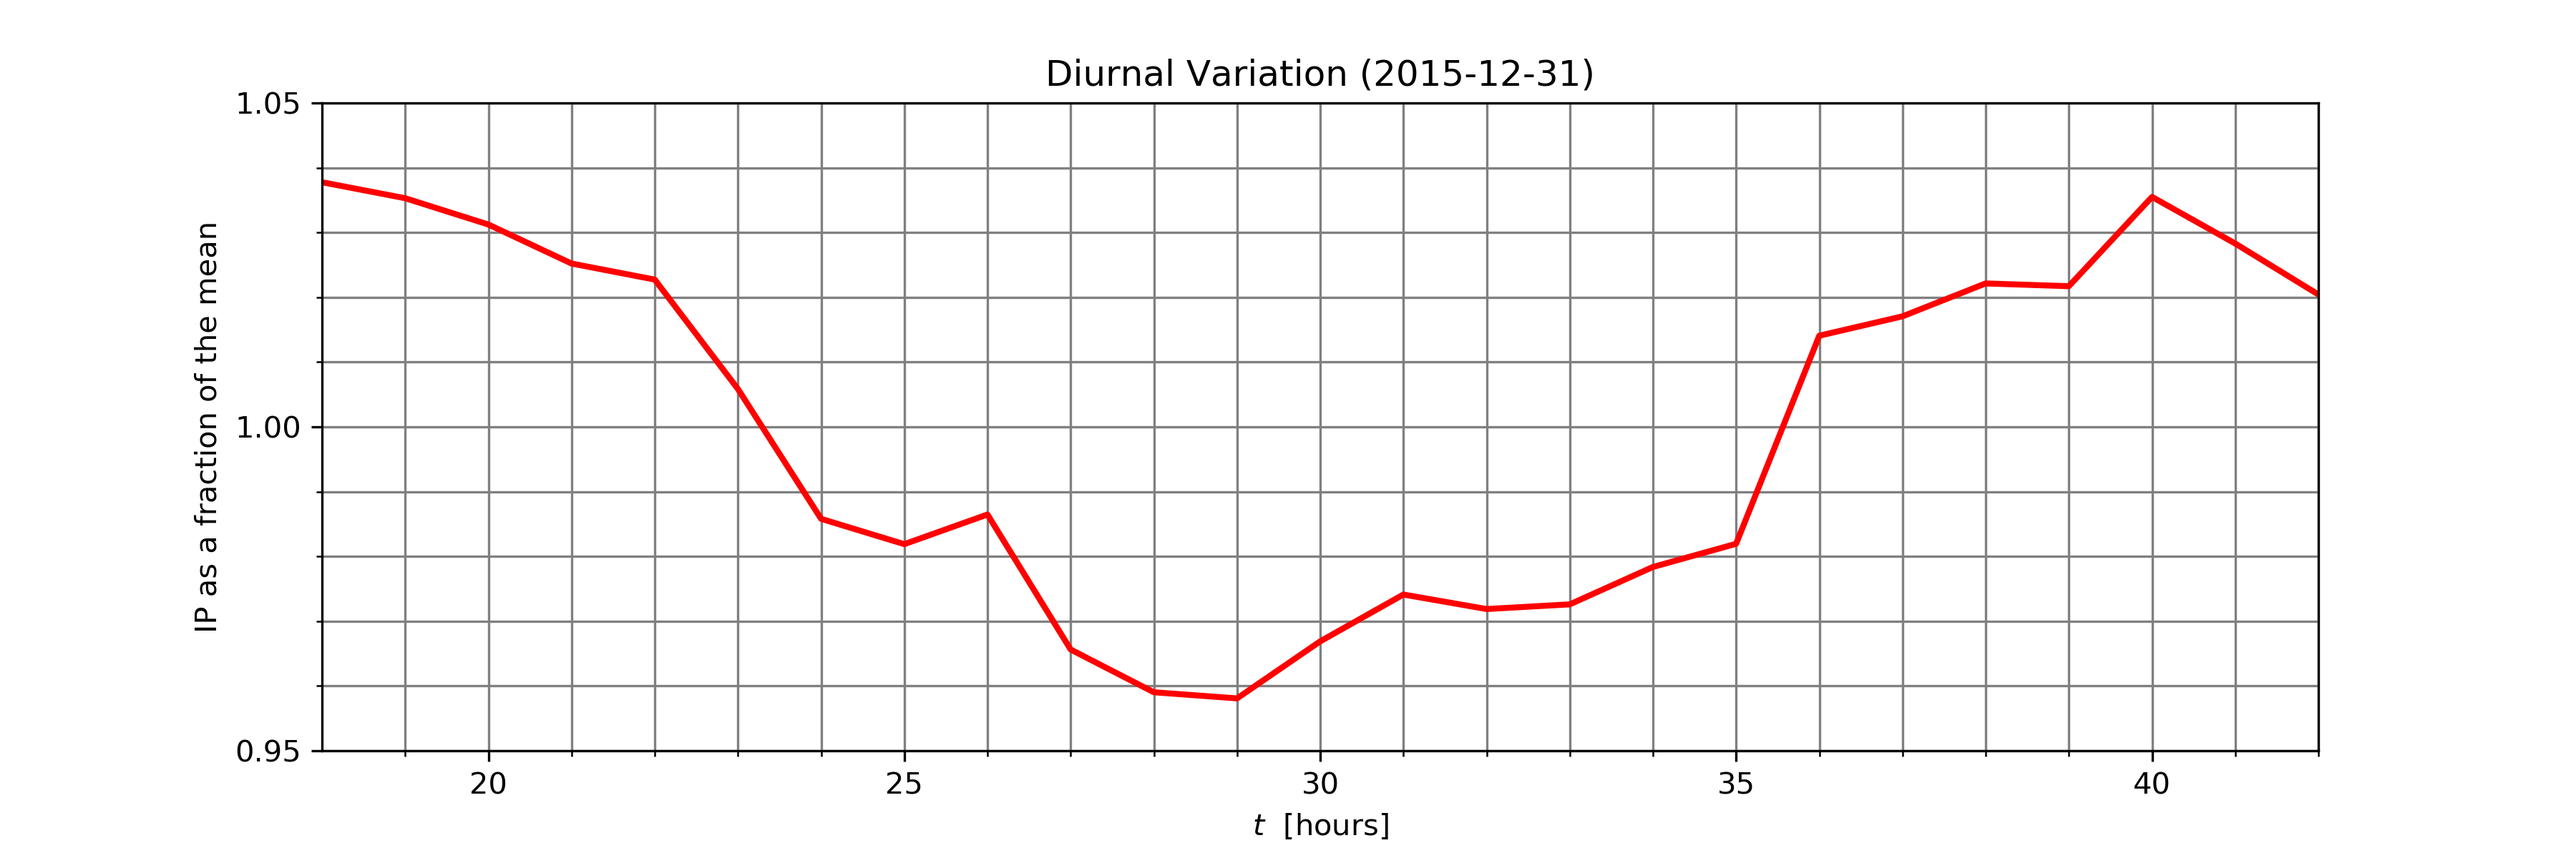
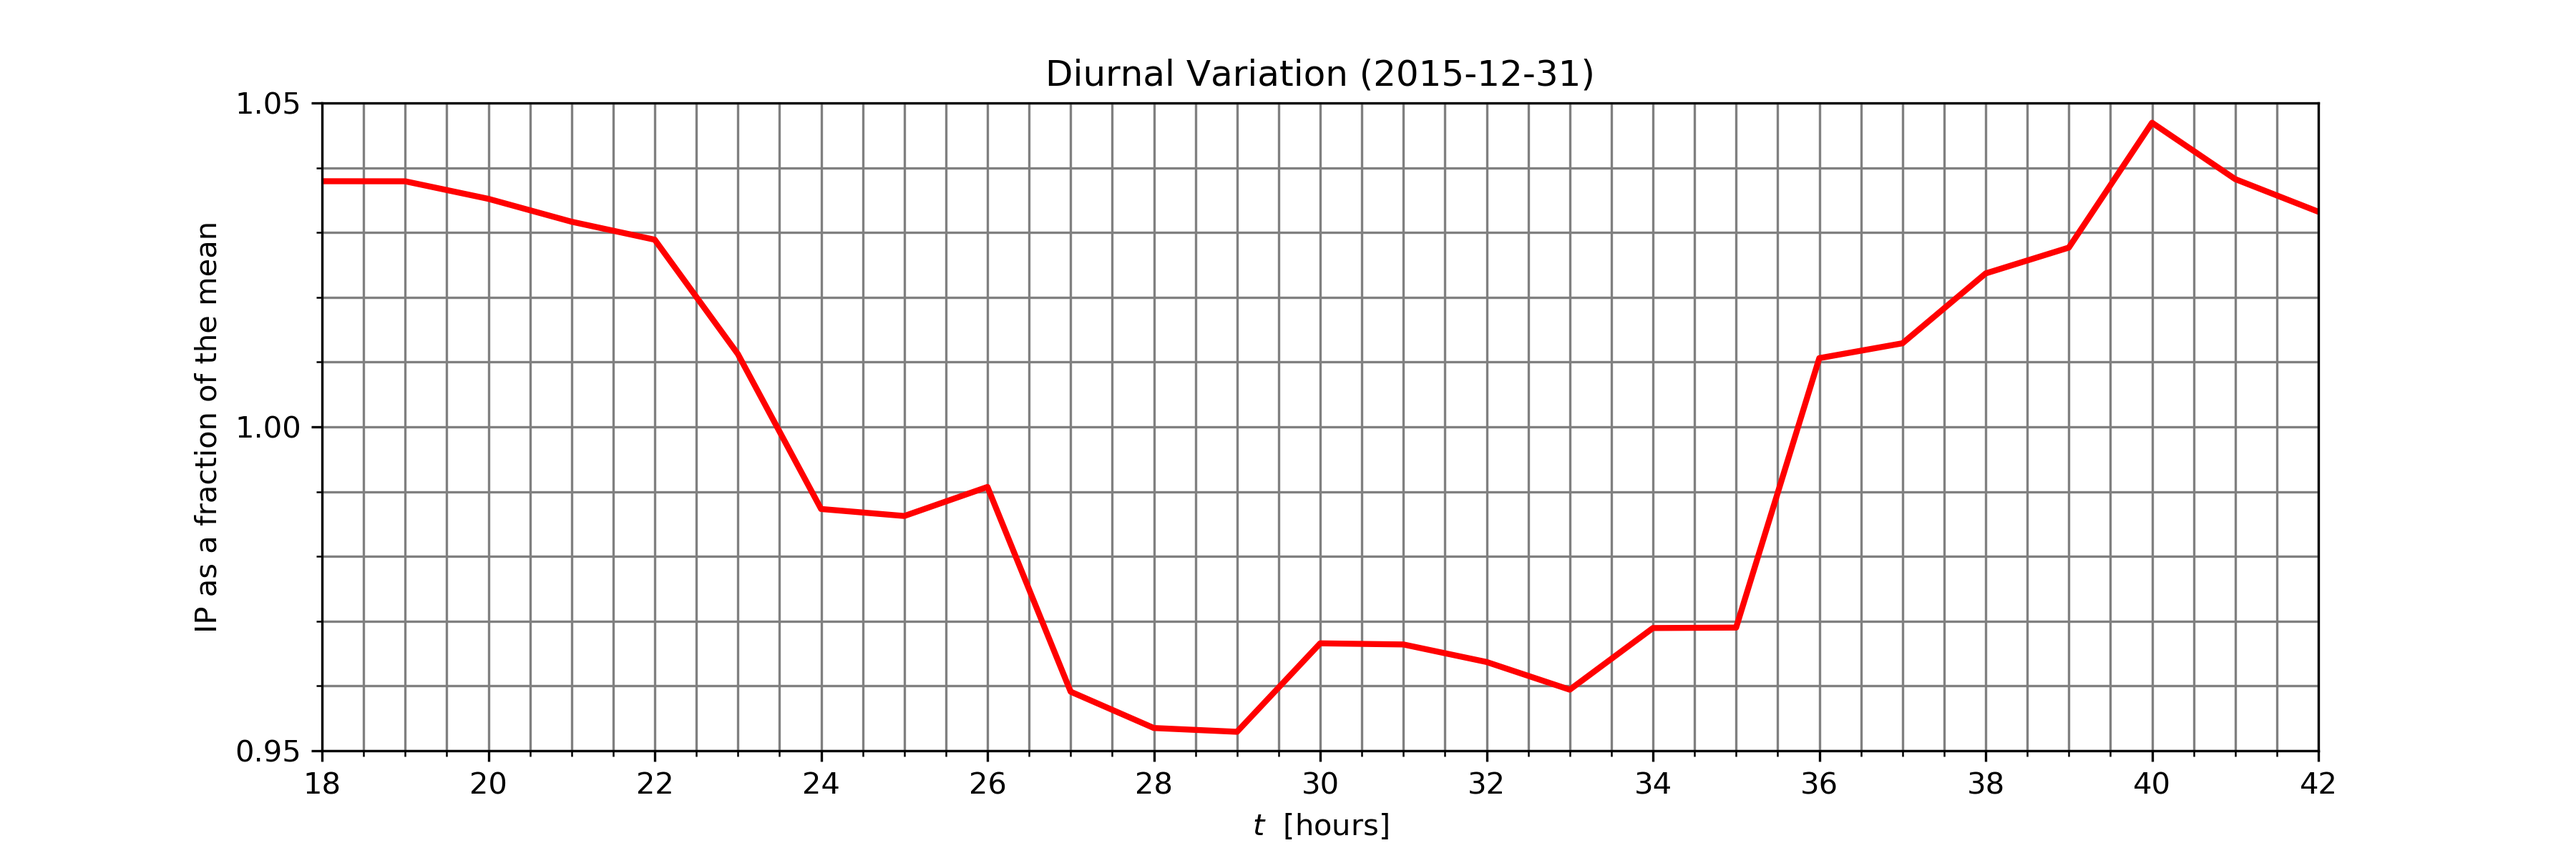
14.7.21

diff --git a/main.cpp b/main.cpp
@@ -15,6 +15,11 @@ T sqr(T x) {
     return x * x;
 }
 
+template<typename T>
+T cub(T x) {
+    return x * x * x;
+}
+
 constexpr double z_0 = 0.0;
 constexpr double z_1 = 20.0; ///< the break of height grid (integer)
 constexpr double z_max = 70.0;
@@ -23,7 +28,7 @@ constexpr size_t n_2 = 19; ///< points per upper atmosphere
 constexpr size_t steps = n_1 * size_t(z_1 - z_0) + n_2; ///< total number of points
 
 /*!
- \brief This is a container of data about the column
+ \brief This is a container of column data
 
  Atmosphere is divorced into columns (add the scheme!)
  */
@@ -57,9 +62,9 @@ public:
     LinHG(): ParentHG() {
         for (size_t i = 0; i < steps; i++) {
             if (i <= n_1 * size_t(z_1)) {
-                altitude[i] = i / n_1;
+                altitude[i] = double(i) / double(n_1);
             } else {
-                altitude[i] = (i - n_1 * z_1) * (z_max - z_1) / n_2 + z_1;
+                altitude[i] = (double(i) - double(n_1) * z_1) * (z_max - z_1) / n_2 + z_1;
             };
         }
     }
@@ -116,7 +121,7 @@ public:
  */
 class ParentConductivity : public IonMobility, public IonPairProdRate, public IonIonRecombCoeff, public StdAtm {
 protected:
-    static constexpr double sigma_0 = 5.0e-14;
+    static constexpr double sigma_0 = 6.0e-14;
     static constexpr double H_0 = 6.0; // km
     constexpr static double e_0 = 1.602176634e-19; // C
 public:
@@ -194,7 +199,7 @@ public:
  */
 class ParentCurrent {
 protected:
-    static constexpr double j_0 = 1.76e-08;
+    static constexpr double j_0 = 6.4e-9;
 public:
     ParentCurrent() = default;
 
@@ -211,13 +216,13 @@ template<class Alt>
 class StepCurrent : public ParentCurrent {
 public:
     static double current_func(double z, ...) {
-        return (z >= 5.0 and z < 10.0) ? j_0 : 0.0;
+        return (z >= 5.0 and z <= 10.0) ? j_0 : 0.0;
     }
 
-    StepCurrent(unsigned lat, unsigned lon, double cbot, double ctop, double cape) : ParentCurrent() {
+    StepCurrent(...) : ParentCurrent() {
         Alt a{};
         for (size_t i = 0; i < steps; ++i) {
-            j[i] = current_func(a.altitude[i], lat, lon, cbot, ctop, cape);
+            j[i] = current_func(a.altitude[i]);
         }
     }
 };
@@ -253,7 +258,7 @@ template<class Alt>
 class [[maybe_unused]] SimpleGeoCurrent : public ParentCurrent {
 public:
     static double current_func(double z, double lat, ...) {
-        return (std::abs(lat) <= 5) ? StepCurrent<Alt>::current_func(z) : ZeroCurrent<Alt>::current_func(z);
+        return (std::abs(lat) <= 5 and std::abs(z-7.5) <= 2.5) ? j_0 : 0.0;
     }
 
     SimpleGeoCurrent(unsigned lat, ...) : ParentCurrent() {
@@ -371,11 +376,49 @@ private:
     double help[steps]{}; ///< Help-array is used when calculating the integrals
 
     /*!
-     \brief IP calculator
+     * \brief IP calculator
+     * \todo Add formula!
+     */    
 
-     \todo Add formula!
-     */
-    double calc_IP() {
+    double calc_IP_Simp() {
+        double up = 0.0;
+        double down = 0.0;
+        double h = 0.0;
+        for (size_t i = 0; i < model.capacity(); ++i) {
+            double int_curr_by_cond = 0.0;
+            double int_rev_cond = 0.0;
+
+            /*!
+             * \brief Calculation of integrals with the help of Simpson's rule
+             *
+             * On each step integrands is approximated by parapola with coefficients A, B, C
+             */
+            double x1{}, x2{}, x3{}, y1{}, y2{}, y3{}, denom{};
+            double A{}, B{}, C{};
+            for (size_t k = 0; k + 2 < n_1 * size_t(z_1); k+=2){
+                x1 = model[i].altitude[k], x2 = model[i].altitude[k+1], x3 = model[i].altitude[k+2];
+                y1 = 1 / model[i].sigma[k], y2 = 1 / model[i].sigma[k+1], y3 = 1 / model[i].sigma[k+2];
+                denom = (x1 - x2) * (x1 - x3) * (x2 - x3);
+                A = (x3 * (y2 - y1) + x2 * (y1 - y3) + x1 * (y3 - y2)) / denom;
+                B = (sqr(x3) * (y1 - y2) + sqr(x2) * (y3 - y1) + sqr(x1) * (y2 - y3)) / denom;
+                C = (x2 * x3 * (x2 - x3) * y1 + x3 * x1 * (x3 - x1) * y2 + x1 * x2 * (x1 - x2) * y3) / denom;
+                int_rev_cond += A * (cub(x3) - cub(x1)) / 3 + B * (sqr(x3) - sqr(x1)) / 2 + C * (x3 - x1);
+
+                y1 = model[i].j_s[k] / model[i].sigma[k], y2 = model[i].j_s[k+1] / model[i].sigma[k+1], y3 = model[i].j_s[k] / model[i].sigma[k];
+                denom = (x1 - x2) * (x1 - x3) * (x2 - x3);
+                A = (x3 * (y2 - y1) + x2 * (y1 - y3) + x1 * (y3 - y2)) / denom;
+                B = (sqr(x3) * (y1 - y2) + sqr(x2) * (y3 - y1) + sqr(x1) * (y2 - y3)) / denom;
+                C = (x2 * x3 * (x2 - x3) * y1 + x3 * x1 * (x3 - x1) * y2 + x1 * x2 * (x1 - x2) * y3) / denom;
+                int_curr_by_cond += A * (cub(x3) - cub(x1)) / 3 + B * (sqr(x3) - sqr(x1)) / 2 + C * (x3 - x1);
+            }
+
+            up += model[i].area * (int_curr_by_cond - model[i].phi_s) / int_rev_cond;
+            down += model[i].area / int_rev_cond;
+        }
+        return up / down;
+    }
+
+    double calc_IP_trap() {
         double up = 0.0;
         double down = 0.0;
         double h = 0.0;
@@ -387,15 +430,17 @@ private:
             double int_curr_by_cond = 0.0;
             double int_rev_cond = 0.0;
             // int calc
+            if (model[i].altitude[2] - model[i].altitude[1] == 0){
+                std::cout << i << "\n";
+            }
             for (size_t q = 1; q < steps; ++q) {
                 h = model[i].altitude[q] - model[i].altitude[q - 1];
-                int_curr_by_cond += (model[i].j_s[q] / model[i].sigma[q] + model[i].j_s[q - 1] / model[i].sigma[q - 1]) * h / 2;
+                int_curr_by_cond += (model[i].j_s[q] / model[i].sigma[q] + model[i].j_s[q - 1] / model[i].sigma[q - 1]) * h / 2.0;
                 int_rev_cond += (1 / model[i].sigma[q] + 1 / model[i].sigma[q - 1]) * h / 2;
             }
             up += model[i].area * (int_curr_by_cond - model[i].phi_s) / int_rev_cond;
             down += model[i].area / int_rev_cond;
         }
-
         return up / down;
     }
 
@@ -408,8 +453,8 @@ public:
         assert(steps % 2 != 0);
         N = N_;
         M = M_;
-        delta_lat = 180.0 / N;
-        delta_lon = 360.0 / M;
+        delta_lat = 180.0 / double(N);
+        delta_lon = 360.0 / double(M);
         /// initialization of help array
         double A[2];
         A[0] = 2;
@@ -421,7 +466,7 @@ public:
 
     double get_IP() {
         if (not isIPCalculated) {
-            IP = calc_IP();
+            IP = calc_IP_Simp();
             isIPCalculated = true;
         }
         return IP;
@@ -467,12 +512,14 @@ public:
     ParentLatLonGrid() : GECModel(180, 360) {};
 
     [[nodiscard]] double lat_arg(unsigned n, double d_lat) const {
-        double lat_n = -90.0 + d_lat * n;
+        return -90.0 + 0.5 + d_lat * n;
+        /*
         if (n == N - 1) {
             return 0.5 * (lat_n + 90.0);
         } else {
             return lat_n + 0.5 * d_lat;
         }
+        */
     }
 
     [[nodiscard]] double lon_arg(unsigned m, double d_lon) const {
@@ -511,14 +558,18 @@ public:
 template<class Alt, class PhiS>
 class DateLatLonGrid : public ParentLatLonGrid {
 private:
-    static constexpr double coef = 0.98; ///< some proportionality coefficient that defines what area occupied by sources
+    static constexpr double coef = 0.34; ///< some proportionality coefficient that defines what area occupied by sources
 public:
     explicit DateLatLonGrid(double thisYear, size_t hour) : ParentLatLonGrid() {
         set_year(thisYear);
         model.reserve(2 * N * M);
+
+        /*!
+         This variable serves as the lower boundary of the cells when calculating their areas;
+         when finding the values of functions from coordinates, use a special function for the argument
+         */
         double lat_n = -90.0;
         for (size_t n = 0; n < N; ++n) {
-            lat_n += delta_lat;
             for (size_t m = 0; m < M; ++m) {
                 Alt alt;
                 Conductivity<Alt> cond(lat_arg_m(lon_arg(m, delta_lon), lat_arg(n, delta_lat)),0.5);
@@ -554,6 +605,7 @@ public:
                 model[n2].phi_s = PhiS::phi_s(lat_arg(n, delta_lat),
                                               lon_arg(m, delta_lon));
             }
+            lat_n += delta_lat;
         }
     }
 };
@@ -570,26 +622,33 @@ public:
         model.reserve(N * M);
         double lat_n = -90.0;
         for (size_t n = 0; n < N; ++n) {
-            lat_n += delta_lat;
+            //std::cout << n << "\t" << lat_n << "\t" << lat_arg(n, delta_lat) << "\n";
             for (size_t m = 0; m < M; ++m) {
                 Alt alt{};
                 ExpCond<Alt> cond{};
-                SimpleGeoCurrent<Alt> sim_geo_j(lat_n);
+                StepCurrent<Alt> j_test{};
+                ZeroCurrent<Alt> j_zero{};
 
                 size_t n1 = n * M + m;
-                model[n1].area = GeoArea::area(n, N, m, M, delta_lat, delta_lon);
+                model[n1].area = 1.0;
                 std::copy(std::begin(alt.altitude), std::end(alt.altitude), std::begin(model[n1].altitude));
                 std::copy(std::begin(cond.sigma), std::end(cond.sigma), std::begin(model[n1].sigma));
-                std::copy(std::begin(sim_geo_j.j), std::end(sim_geo_j.j), std::begin(model[n1].j_s));
                 model[n1].phi_s = ZeroPhiS::phi_s();
+
+                if (std::fabs(lat_arg(n,delta_lat)) < 5.0) {
+                    std::copy(std::begin(j_test.j), std::end(j_test.j), std::begin(model[n1].j_s));
+                } else {
+                    std::copy(std::begin(j_zero.j), std::end(j_zero.j), std::begin(model[n1].j_s));
+                }
             }
+            lat_n += delta_lat;
         }
 
     }
 };
 
 int main() {
-    /*std::ofstream basicOfstream("plots/diurnal_variation.txt");
+    std::ofstream basicOfstream("plots/diurnal_variation.txt");
     if (!basicOfstream.is_open()) {
         std::cout << "Impossible to find a file" << std::endl;
         exit(-1);
@@ -601,14 +660,18 @@ int main() {
     }
 
     basicOfstream.close();
-     */
+
     /*
     DateLatLonGrid<LinHG, ZeroPhiS> m(2015.9, 28);
     std::cout << m.get_IP() << std::endl;
-     */
+    */
 
+    /*!
+     Test 1, the analytic answer is 8736.80375713836, while the programme gives 8927.4
+     */
+    /*
     Test1<LinHG> m{};
     std::cout << m.get_IP() << std::endl;
-
+    */
     return EXIT_SUCCESS;
 }

diff --git a/plots/untitled0.py b/plots/untitled0.py
@@ -1,36 +1,27 @@
-import matplotlib.pyplot as plt
-import matplotlib.ticker as ticker
 import numpy as np
+from sympy import *
 
-a = np.genfromtxt('phi_wos.txt')
-#b = np.genfromtxt('phi_180*90+1.txt')
+z, sigma_0, j_0, H_0, H, sigma, j, S, n =  symbols('z, sigma_0, j_0, H_0, H, sigma, j, S, n')
 
-fig, ax = plt.subplots()
+sigma_0 = 6*10**(-14)
+H_0 = 6
+j_0 = 6.4*10**(-9)
+H = 70
 
-ax.set_xlim([0,250])
-ax.set_ylim([0,70])
-ax.set_ylabel(r'$z$ [km]')
-ax.set_xlabel(r'$\varphi$ [V]')
-ax.plot(a[:,1], a[:,0], 'b-', linewidth = 2, label = 'without sources')
-#ax.plot(b[:,1], b[:,0], 'r-', linewidth = 2, label = 'with sources')
+S = 1
 
-ax.legend()
+def sigma(z):
+    return sigma_0 *  exp(z / H_0)
 
-ax.xaxis.set_major_locator(ticker.MultipleLocator(50))
-ax.xaxis.set_minor_locator(ticker.MultipleLocator(10))
-ax.yaxis.set_major_locator(ticker.MultipleLocator(10))
-ax.yaxis.set_minor_locator(ticker.MultipleLocator(5))
+def f1(z):
+    return j_0 / sigma(z)
 
-ax.grid(which='major',
-        color = 'k')
+def f2(z):
+    return 1 / sigma(z)
 
+sum_up = summation(S *  integrate(f1(z), (z, 5, 10)) / integrate(f2(z), (z, 0, H)), (n,1,10*360))
+sum_down = summation(S / integrate(f2(z), (z, 0, H)), (n,1,180*360))
 
-ax.minorticks_on()
-ax.grid(which='minor',
-        color = 'gray',
-        linestyle = ':')
+ans = sum_up / sum_down
 
-fig.set_figwidth(8)
-fig.set_figheight(6)
-
-plt.show()
+print(simplify(ans.evalf()))

diff --git a/plots/diurnal_variation.py b/plots/diurnal_variation.py
@@ -19,14 +19,14 @@ ax.set_ylabel(r'IP as a fraction of the mean')
 ax.set_xlim([18,42])
 ax.set_ylim([0.95,1.05])
 
-ax.plot(a[:,0], (a[:,1] - b + 240) / 240 , '-r', linewidth = 2)
+ax.plot(a[:,0], (a[:,1] - b) / a[0,1] + 1 , '-r', linewidth = 2)
 
 #  Устанавливаем интервал основных и
 #  вспомогательных делений:
-ax.xaxis.set_major_locator(ticker.MultipleLocator(5))
+ax.xaxis.set_major_locator(ticker.MultipleLocator(2))
 ax.xaxis.set_minor_locator(ticker.MultipleLocator(1))
 ax.yaxis.set_major_locator(ticker.MultipleLocator(0.05))
-ax.yaxis.set_minor_locator(ticker.MultipleLocator(0.1))
+ax.yaxis.set_minor_locator(ticker.MultipleLocator(1))
 
 
 #  Добавляем линии основной сетки:
@@ -44,7 +44,7 @@ ax.grid(which='minor',
 fig.set_figwidth(12)
 fig.set_figheight(4)
 
-#fig.savefig('Diurnal Variation (2015-12-31) 18-42.png', dpi = 300)
+fig.savefig('Diurnal Variation (2015-12-31) 18-42.png', dpi = 300)
 
 plt.show()
 
